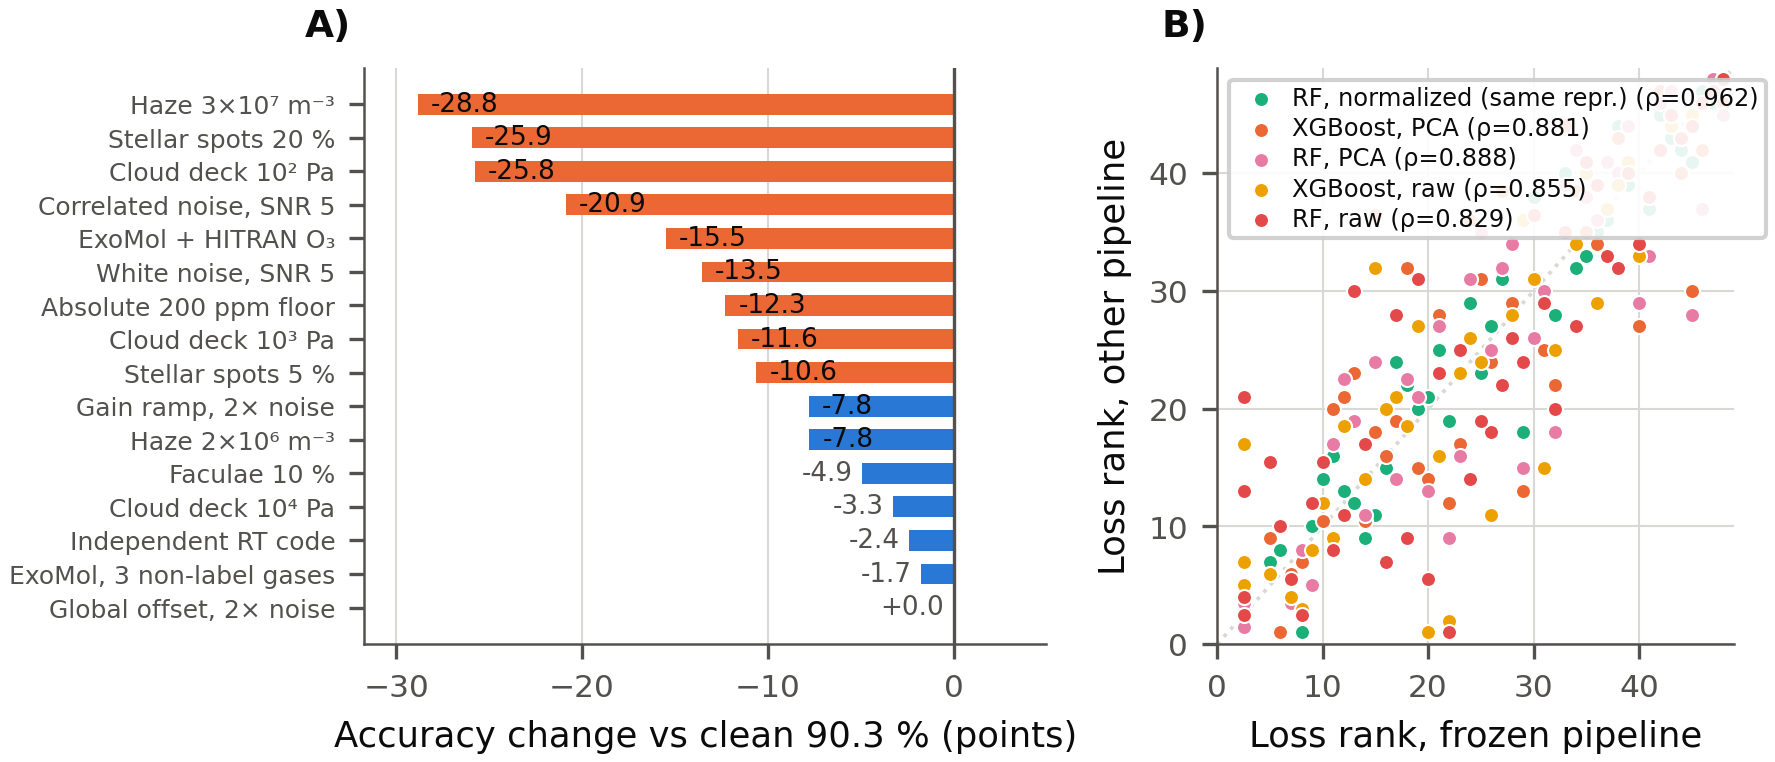
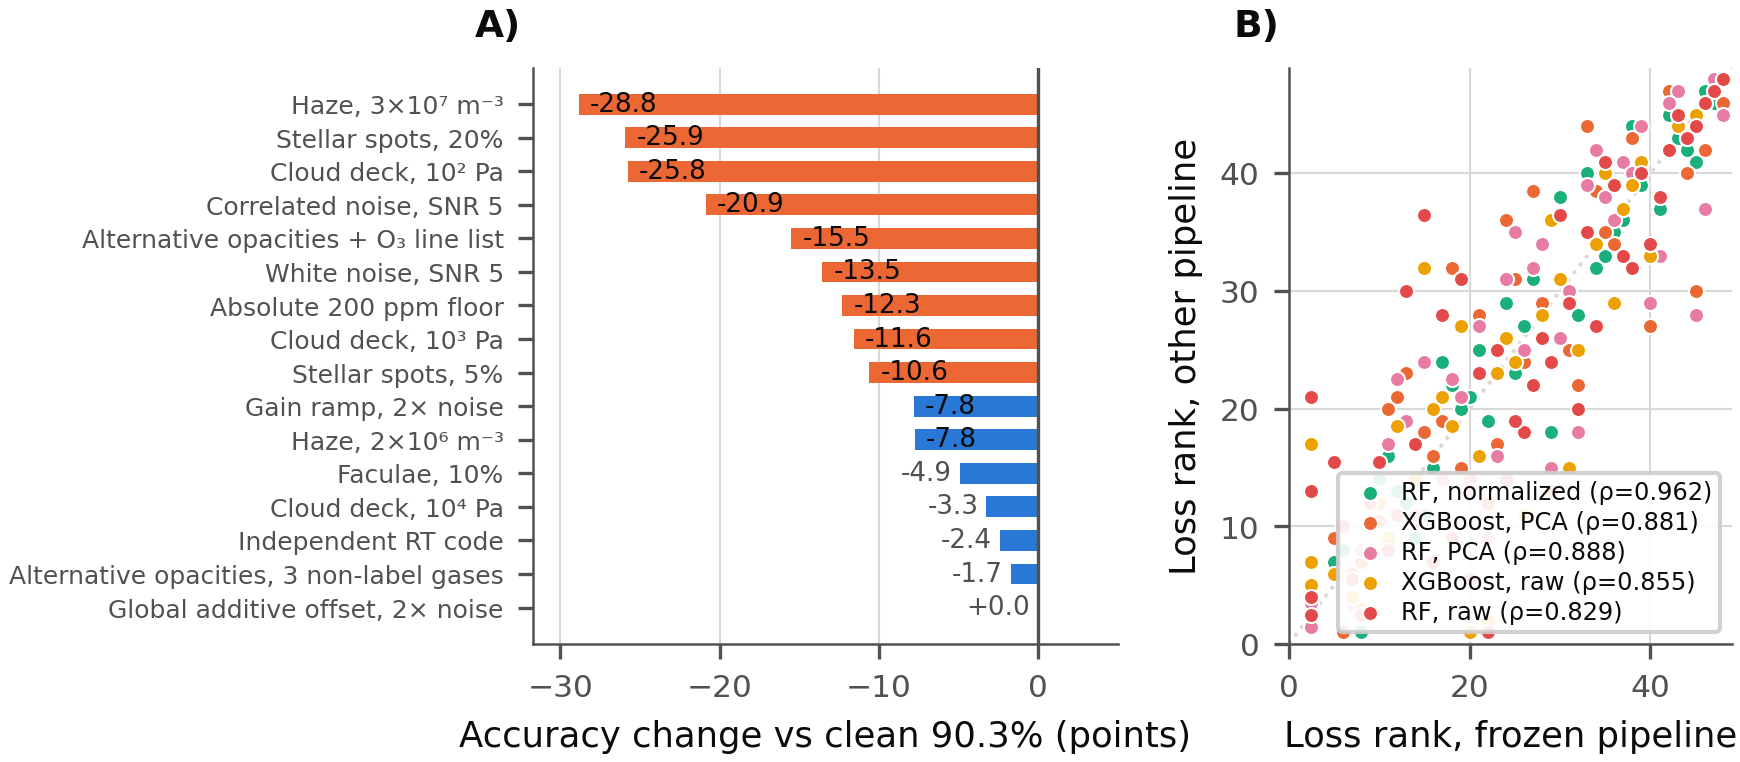
Name the shifts in the figure the way the table names them
Panel A labelled the same cases differently from Table 1 in the paper, so a
reader checking a number against the table met two names for one row: "ExoMol +
HITRAN O3" against "the label-bearing (O3) line list", "ExoMol, 3 non-label
gases" against "Alternative opacities, 3 non-label gases", "Global offset"
against "Global additive offset". Percent signs were spaced one way in the
figure and another in the paper. Labels now match the table word for word
wherever a row appears in both.

Panel B's legend sat over the high-rank end of the diagonal, hiding the points
that carry the result. It moves to the lower right, the emptiest corner of a
rank-rank plot, and the entries drop "(same repr.)", an abbreviation the paper
never uses. The caption expands RF.

diff --git a/v2/plots/fig4_fidelity_sweeps.py b/v2/plots/fig4_fidelity_sweeps.py
@@ -13,26 +13,29 @@ from style import GRID, INK, INK2, SERIES, figure, panel_label, save  # noqa: E4
 RES = os.path.join(os.path.dirname(os.path.dirname(os.path.abspath(__file__))), "results")
 
 ROWS = [
-    ("Haze 3×10⁷ m⁻³", "haze", "haze_3p0e7"),
-    ("Cloud deck 10² Pa", "cloud", "cloud_1e2Pa"),
-    ("Stellar spots 20 %", "tlse", "tlse_spots20"),
+    # Labels match Table 1 in the paper word for word wherever a row appears in both,
+    # so a reader matching a number across table and figure sees one name for it.
+    ("Haze, 3\u00d710\u2077 m\u207b\u00b3", "haze", "haze_3p0e7"),
+    ("Cloud deck, 10\u00b2 Pa", "cloud", "cloud_1e2Pa"),
+    ("Stellar spots, 20%", "tlse", "tlse_spots20"),
     ("Correlated noise, SNR 5", "correlated noise", "snr5"),
-    ("ExoMol + HITRAN O₃", "exomol", "exomol_o3"),
+    ("Alternative opacities + O\u2083 line list", "exomol", "exomol_o3"),
     ("White noise, SNR 5", "white noise", "snr5"),
     ("Absolute 200 ppm floor", "absolute noise", "200 ppm"),
-    ("Cloud deck 10³ Pa", "cloud", "cloud_1e3Pa"),
-    ("Stellar spots 5 %", "tlse", "tlse_spots05"),
-    ("Gain ramp, 2× noise", "gain ramp", "x2.0"),
-    ("Haze 2×10⁶ m⁻³", "haze", "haze_2p0e6"),
-    ("Faculae 10 %", "tlse", "tlse_fac10"),
-    ("Cloud deck 10⁴ Pa", "cloud", "cloud_1e4Pa"),
+    ("Cloud deck, 10\u00b3 Pa", "cloud", "cloud_1e3Pa"),
+    ("Stellar spots, 5%", "tlse", "tlse_spots05"),
+    ("Gain ramp, 2\u00d7 noise", "gain ramp", "x2.0"),
+    ("Haze, 2\u00d710\u2076 m\u207b\u00b3", "haze", "haze_2p0e6"),
+    ("Faculae, 10%", "tlse", "tlse_fac10"),
+    ("Cloud deck, 10\u2074 Pa", "cloud", "cloud_1e4Pa"),
     ("Independent RT code", "exotransmit", "exotransmit"),
-    ("ExoMol, 3 non-label gases", "exomol", "exomol"),
-    ("Global offset, 2× noise", "baseline offset", "x2.0"),
+    ("Alternative opacities, 3 non-label gases", "exomol", "exomol"),
+    ("Global additive offset, 2\u00d7 noise", "baseline offset", "x2.0"),
 ]
 # Balanced grid: the frozen pipeline is XGBoost/normalized; these are the other
 # five cells of {XGBoost, random forest} x {normalized, PCA, raw}.
-OTHERS = [("norm_rf", "RF, normalized (same repr.)", 2),
+# Short forms keep the legend clear of the data; the caption expands RF.
+OTHERS = [("norm_rf", "RF, normalized", 2),
           ("pca_xgb", "XGBoost, PCA", 1),
           ("pca_rf", "RF, PCA", 4),
           ("raw_xgb", "XGBoost, raw", 3),
@@ -69,7 +72,7 @@ def main():
         else:
             a.text(v - 0.5, yi, f"{v:+.1f}", va="center", ha="right", fontsize=6.3, color=INK2)
     a.set_xlim(min(v for _, v in vals) * 1.1, 5)
-    a.set_xlabel(f"Accuracy change vs clean {base:.1f} % (points)")
+    a.set_xlabel(f"Accuracy change vs clean {base:.1f}% (points)")
     a.grid(axis="y", visible=False); panel_label(a, "A")
 
     from scipy.stats import rankdata, spearmanr
@@ -95,7 +98,7 @@ def main():
     b.set_xlim(0, len(common) + 1); b.set_ylim(0, len(common) + 1)
     b.set_xlabel("Loss rank, frozen pipeline")
     b.set_ylabel("Loss rank, other pipeline")
-    b.legend(loc="upper left", fontsize=5.8, handletextpad=0.3, borderpad=0.3,
+    b.legend(loc="lower right", fontsize=5.8, handletextpad=0.3, borderpad=0.3,
              labelspacing=0.25, framealpha=0.9, frameon=True)
     panel_label(b, "B")
     fig.tight_layout(w_pad=1.4)
